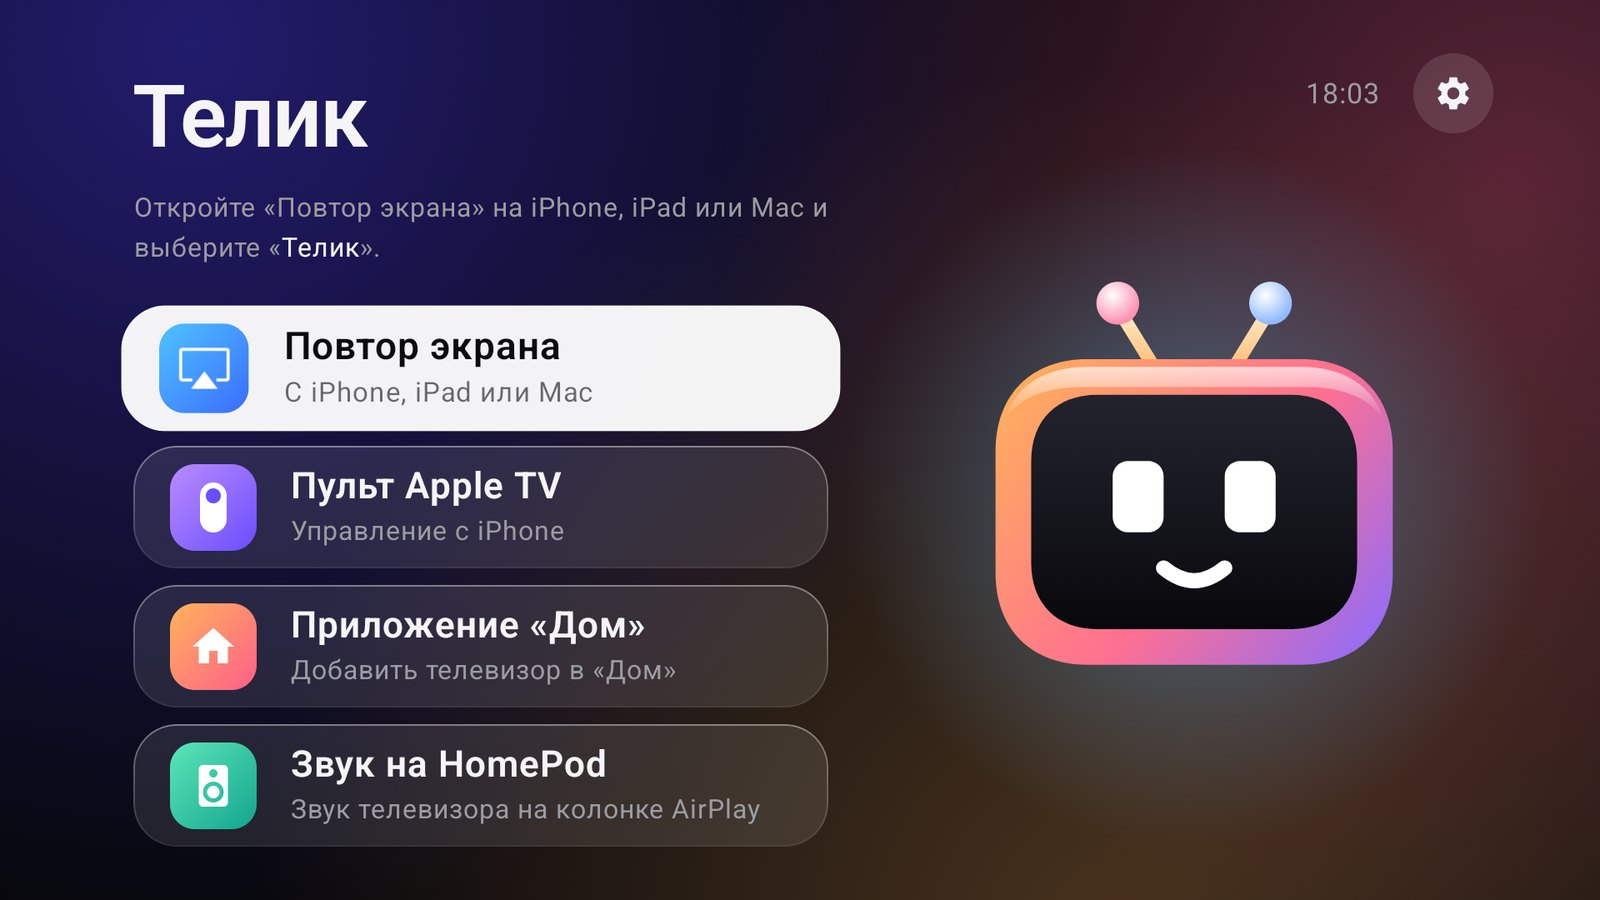
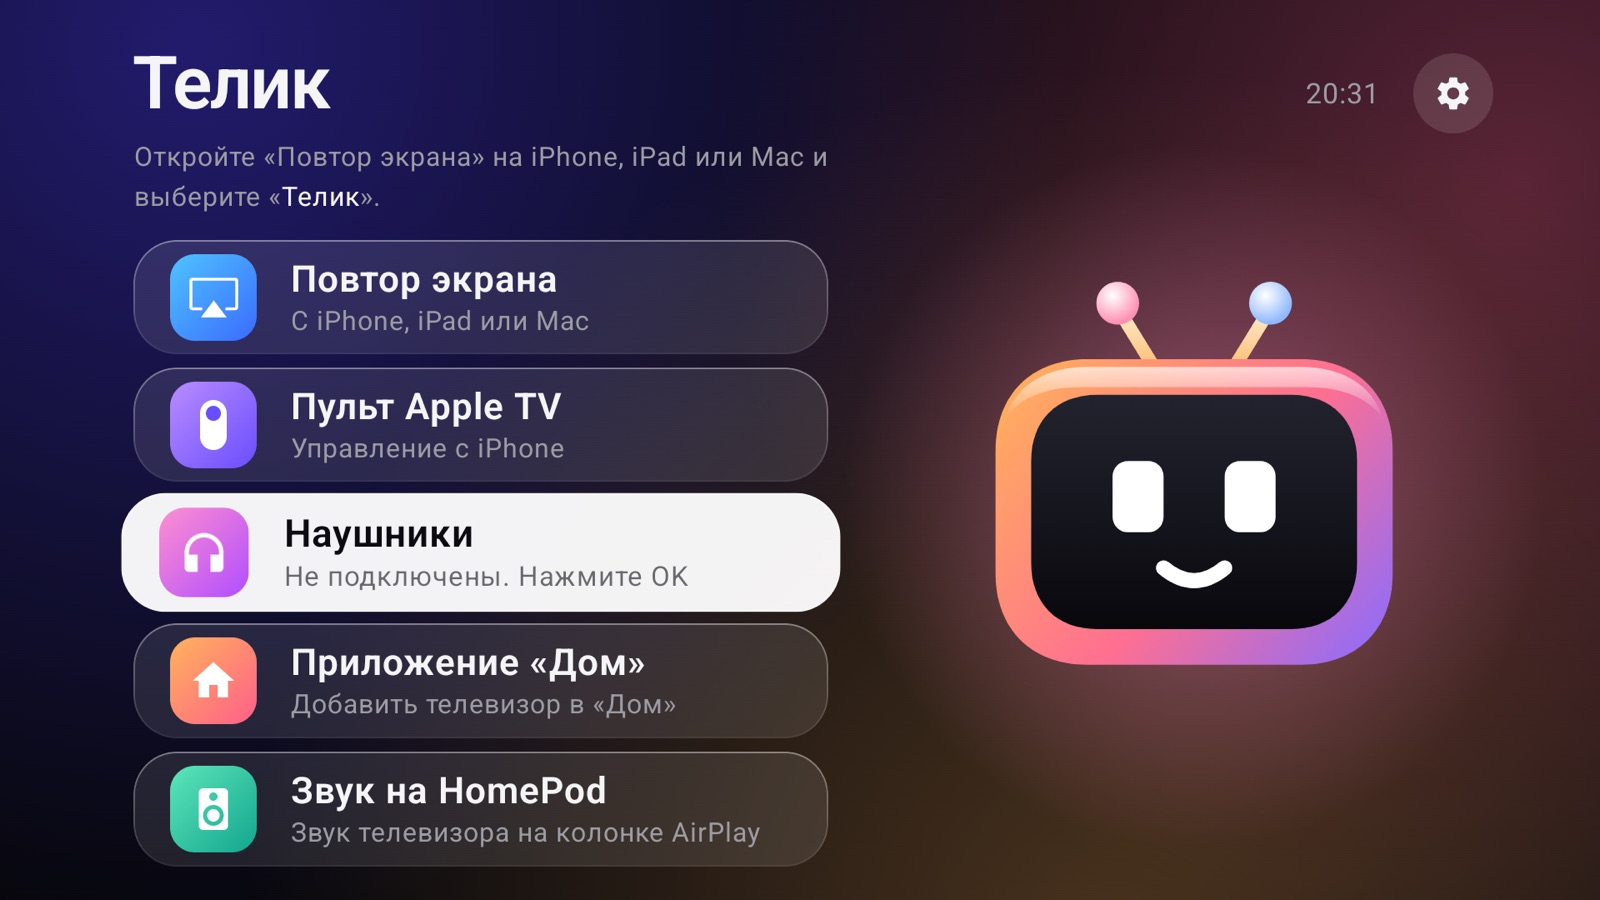
docs(site): describe the headphones button

Changed region(s): [[0.0625, 0.0622, 0.5312, 0.9644], [0.5938, 0.28, 0.9062, 0.84], [0.8125, 0.0933, 0.875, 0.1244]]

diff --git a/site/ru/index.html b/site/ru/index.html
@@ -83,7 +83,7 @@
         <a class="button" href="https://github.com/andrewkomkov/telik">Исходный код</a>
       </div>
       <p class="note">Бесплатно, с открытым кодом, GPL-3.0. Android TV 13+, сборка для 32-битных ARM.</p>
-      <img class="shot" src="../assets/home-ru.jpg" alt="Главный экран Телика: повтор экрана, пульт Apple TV, приложение «Дом» и звук на HomePod" width="1600" height="900">
+      <img class="shot" src="../assets/home-ru.jpg" alt="Главный экран Телика: повтор экрана, пульт Apple TV, наушники, приложение «Дом» и звук на HomePod" width="1600" height="900">
     </div>
 
     <section id="features">
@@ -94,6 +94,7 @@
         <article class="card"><h3>Повтор экрана по AirPlay</h3><p>Экран iPhone, iPad или Mac и звук на телевизоре. В основе UxPlay.</p></article>
         <article class="card"><h3>Приложение «Дом»</h3><p>У телевизора появляется плитка с питанием и приложениями-входами, поэтому его можно включать в сценарии и команды Siri.</p></article>
         <article class="card"><h3>Без лишнего железа</h3><p>Не нужны Homebridge, Raspberry Pi и Termux. Службы запускаются сами после включения телевизора.</p></article>
+        <article class="card"><h3>AirPods на телевизоре</h3><p>Кнопка «Наушники» на главном экране Телика подключает и отключает AirPods. Отдельная настройка подключает их при включении телевизора. Звук передаётся в стерео AAC, без Atmos.</p></article>
         <article class="card"><h3>Компактно</h3><p>APK весит около 11&nbsp;МБ и рассчитан на слабое железо телевизоров.</p></article>
       </div>
     </section>
@@ -117,6 +118,7 @@
             <tr><td>Навигация, громкость, пауза с iPhone</td><td>Работает</td></tr>
             <tr><td>Ввод текста с iPhone</td><td>Работает в стандартных полях ввода Android</td></tr>
             <tr><td>Повтор экрана</td><td>Работает с сопряжением AirPlay 2, код не нужен, проверено на iOS 27.2</td></tr>
+            <tr><td>AirPods с экрана телевизора</td><td>Сначала выполните сопряжение в настройках телевизора. Для кнопки нужна отладка по сети и одно подтверждение на экране</td></tr>
             <tr><td>Многокомнатный звук с HomePod</td><td>Недоступен: нужны порты, которые приложение без root открыть не может</td></tr>
             <tr><td>Кто может транслировать</td><td>Любое устройство в вашей сети</td></tr>
             <tr><td>Apple TV+ и Netflix по AirPlay</td><td>Не поддерживается, используйте их приложения на телевизоре</td></tr>

diff --git a/site/index.html b/site/index.html
@@ -91,6 +91,7 @@
         <article class="card"><h3>AirPlay mirroring</h3><p>Mirror an iPhone, iPad or Mac screen and send sound to the TV. Based on UxPlay.</p></article>
         <article class="card"><h3>Apple Home</h3><p>The TV gets a tile in the Home app with power and app inputs, so scenes and Siri commands can use it.</p></article>
         <article class="card"><h3>No extra hardware</h3><p>No Homebridge, Raspberry Pi or Termux. The services start by themselves after the TV boots.</p></article>
+        <article class="card"><h3>AirPods on the TV</h3><p>A Headphones button on the Telik home screen connects and disconnects AirPods. An optional setting connects them when the TV turns on. Sound is stereo AAC, not Atmos.</p></article>
         <article class="card"><h3>Small</h3><p>The APK is about 11&nbsp;MB and written for low-end TV hardware.</p></article>
       </div>
     </section>
@@ -114,6 +115,7 @@
             <tr><td>Navigation, volume, pause from the iPhone</td><td>Works</td></tr>
             <tr><td>Text input from the iPhone</td><td>Works in standard Android text fields</td></tr>
             <tr><td>Screen mirroring</td><td>Works with AirPlay 2 pairing, no code needed, tested on iOS 27.2</td></tr>
+            <tr><td>AirPods from the TV screen</td><td>Pair them in the TV settings first. The button needs network debugging on the TV and one approval on the screen</td></tr>
             <tr><td>Multi-room audio with HomePod</td><td>Not available. It needs ports that an app without root cannot open</td></tr>
             <tr><td>Who can mirror</td><td>Any device on your network</td></tr>
             <tr><td>Apple TV+, Netflix over AirPlay</td><td>Not supported. Use their apps on the TV</td></tr>
